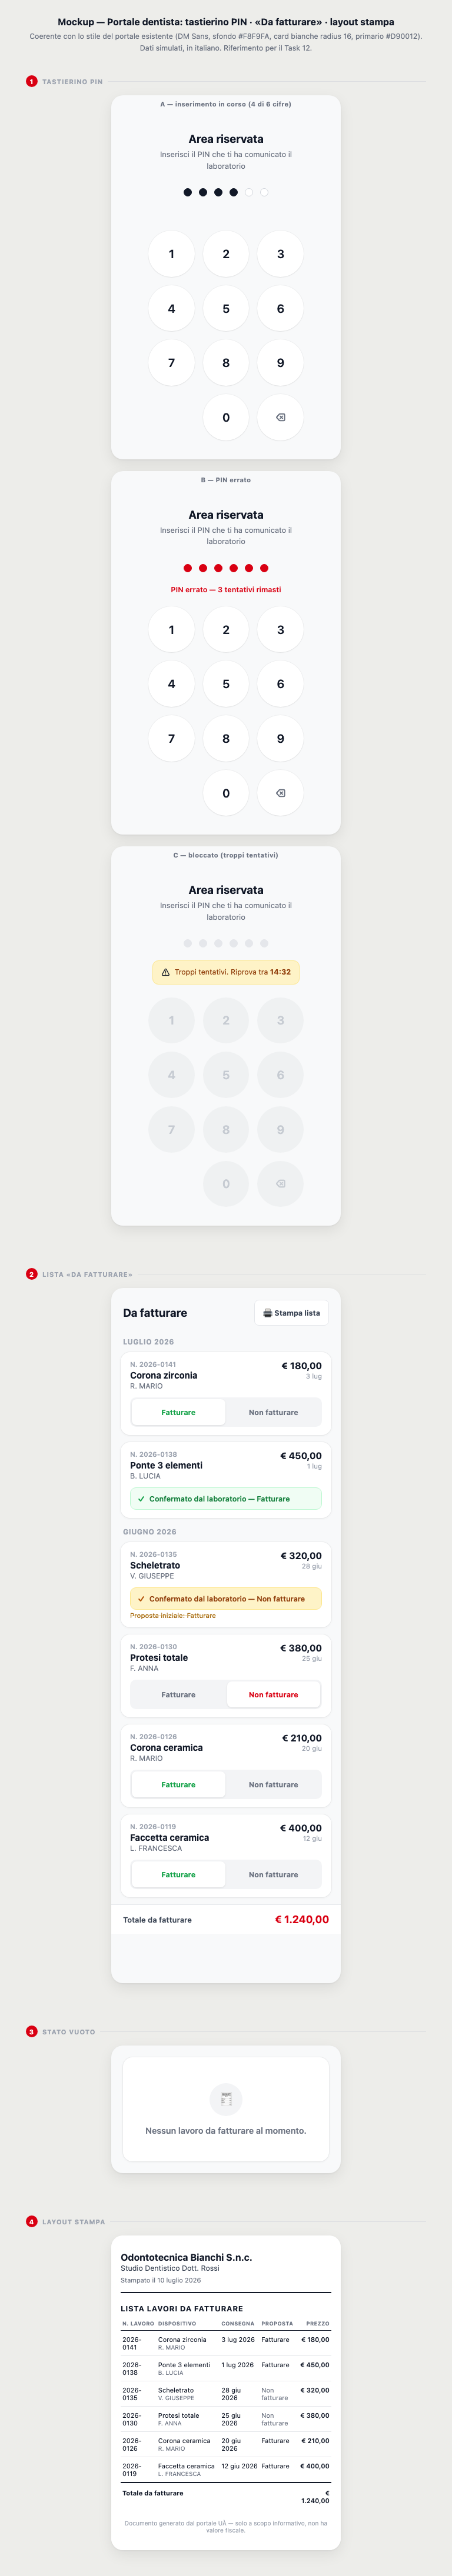
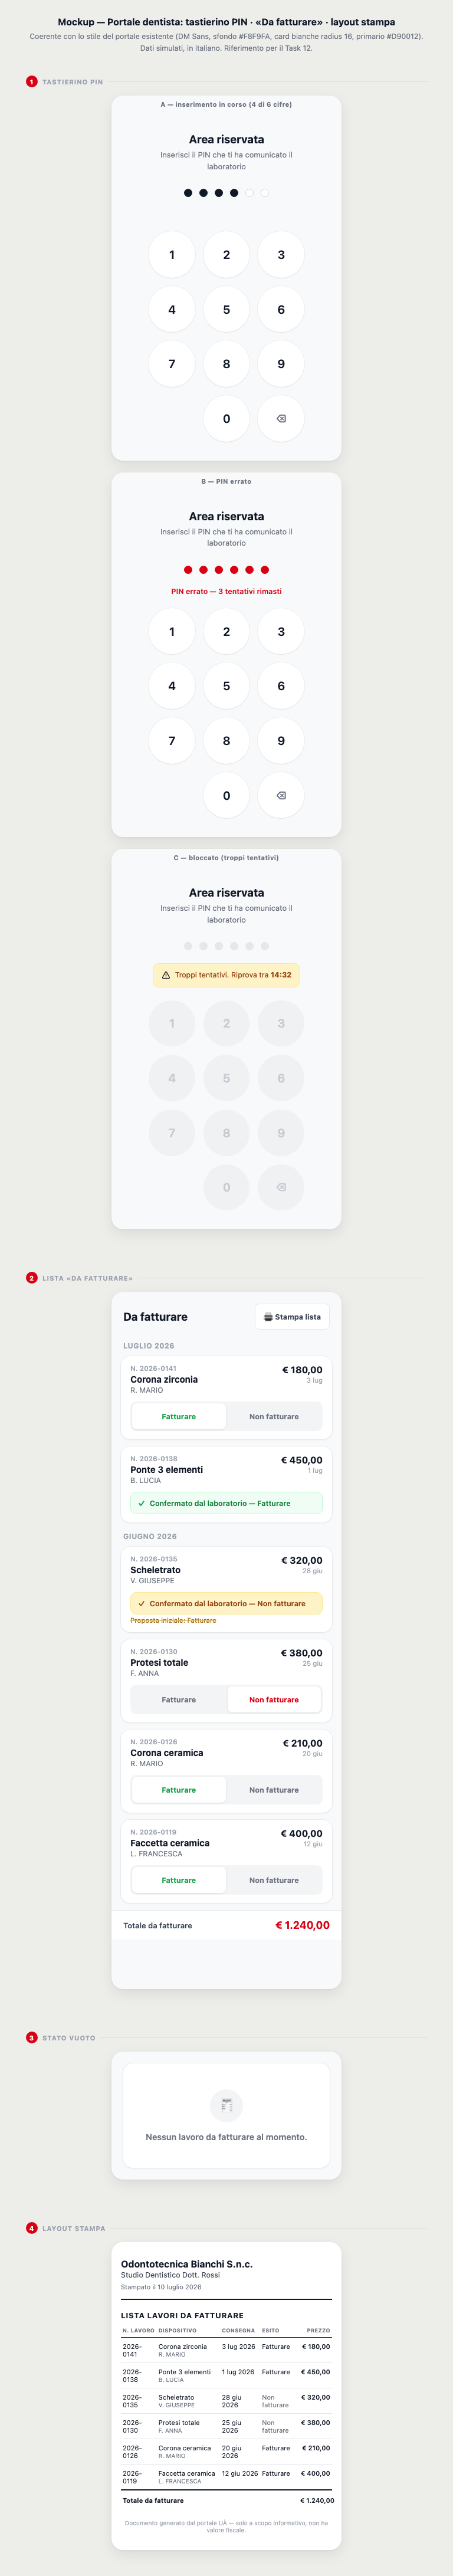
docs(design): fix mockup stampa — colonna Esito, niente wrap a 390px
- Rename print table header from "Proposta" to "Esito" (reflects lab decision semantics)
- Add white-space: nowrap to th and td.num for consistent table rendering at 390px
- Remove unused CSS rule .fatt-confermato.difforme.no .testo-conf-esito
- Regenerate screenshots: 390px and 768px viewports verified

diff --git a/docs/design/mockups/2026-07-10-portale-da-fatturare.html b/docs/design/mockups/2026-07-10-portale-da-fatturare.html
@@ -321,7 +321,6 @@
   }
   .fatt-confermato.difforme .spunta { color: #B45309; }
   .fatt-confermato.difforme .testo-conf { color: #92400E; }
-  .fatt-confermato.difforme.no .testo-conf-esito { color: #D90012; }
   .fatt-proposta-originale {
     font-size: 11.5px;
     color: #A16207;
@@ -437,7 +436,7 @@
     color: #6B7280;
     border-bottom: 1px solid #111827;
     padding: 0 3px 6px;
-    overflow-wrap: break-word;
+    white-space: nowrap;
   }
   .stampa-tabella th.num { text-align: right; }
   .stampa-tabella td {
@@ -447,7 +446,7 @@
     vertical-align: top;
     overflow-wrap: break-word;
   }
-  .stampa-tabella td.num { text-align: right; font-weight: 600; overflow-wrap: normal; }
+  .stampa-tabella td.num { text-align: right; font-weight: 600; white-space: nowrap; }
   .stampa-tabella td.esito-no { color: #6B7280; }
   .stampa-tabella .sub { display: block; font-size: 10px; color: #6B7280; margin-top: 1px; }
   .stampa-tot-riga td {
@@ -753,7 +752,7 @@
               <th>N. lavoro</th>
               <th>Dispositivo</th>
               <th>Consegna</th>
-              <th>Proposta</th>
+              <th>Esito</th>
               <th class="num">Prezzo</th>
             </tr>
           </thead>